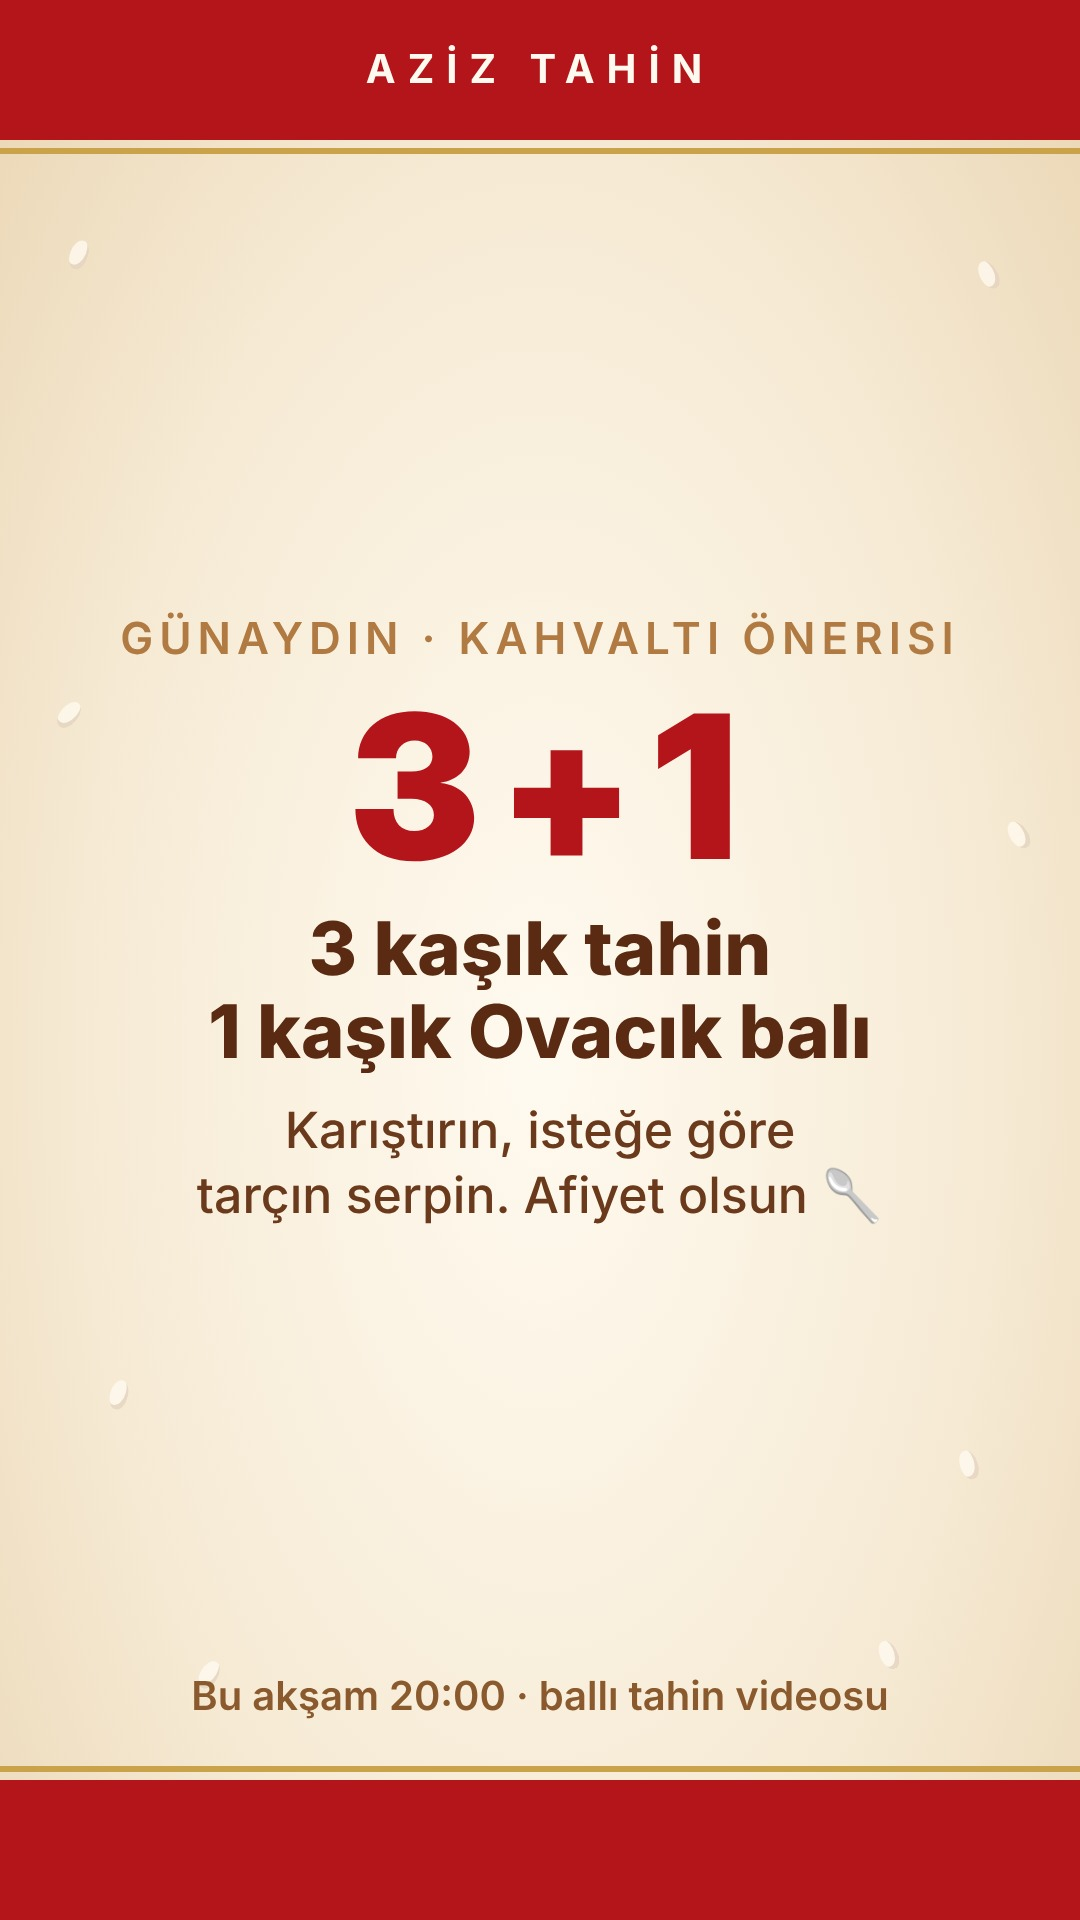
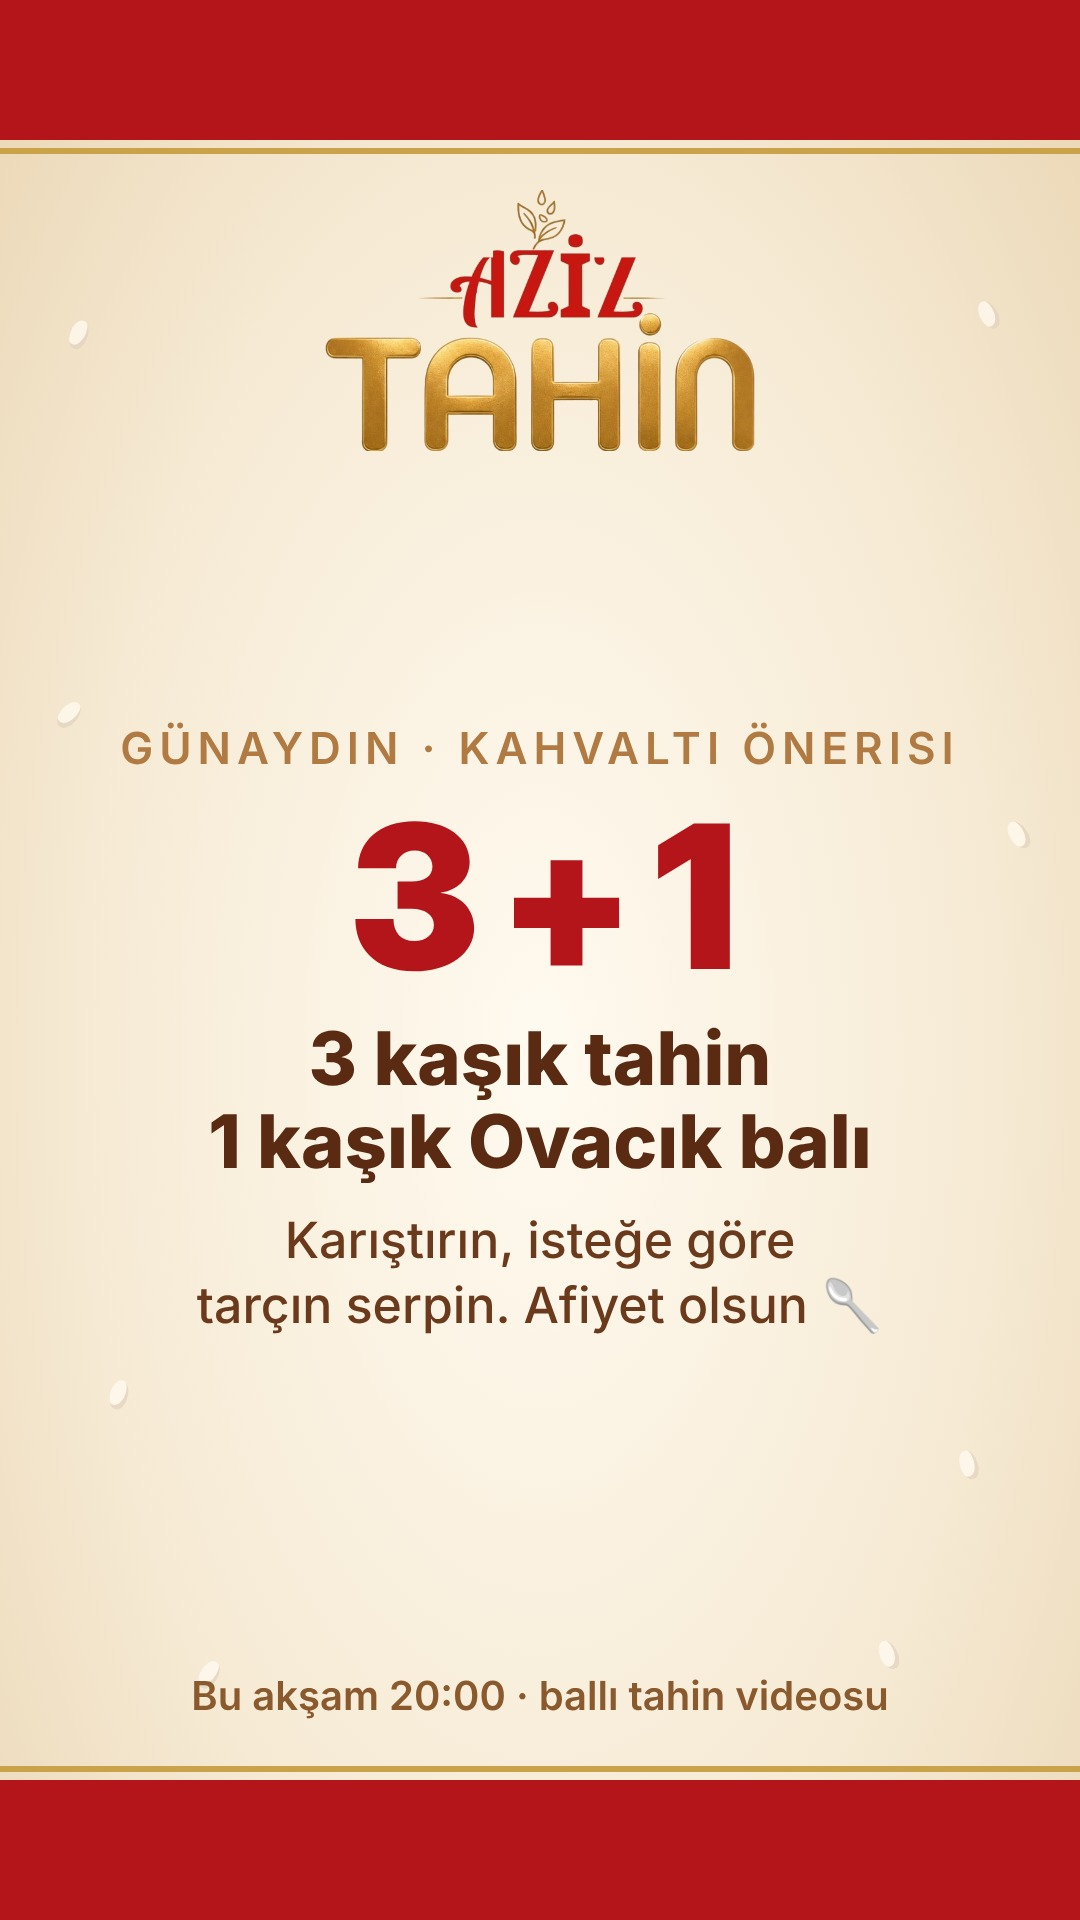
Sabah hikâyeleri: üst kısma gerçek Aziz Tahin logosu eklendi
Claude-Session: https://claude.ai/code/session_01LbgBc4wPXWRgFMDuR8TYQV

diff --git a/.claude/instagram/yayin/gorsel-uretici/uret.py b/.claude/instagram/yayin/gorsel-uretici/uret.py
@@ -8,22 +8,22 @@ background:radial-gradient(ellipse at 50% 55%,#fffaf0 0%,#f6ead4 60%,#ead6b4 100
 .band.top{top:0}.band.bot{bottom:0}
 .band:after{content:"";position:absolute;left:0;right:0;height:6px;background:#c9a24a}
 .band.top:after{bottom:-14px}.band.bot:after{top:-14px}
-.wrap{position:absolute;top:250px;bottom:330px;left:90px;right:90px;display:flex;flex-direction:column;align-items:center;justify-content:center;text-align:center;gap:26px}
+.wrap{position:absolute;top:470px;bottom:330px;left:90px;right:90px;display:flex;flex-direction:column;align-items:center;justify-content:center;text-align:center;gap:26px}
 .kick{font-size:44px;font-weight:600;letter-spacing:6px;color:#b07a42;text-transform:uppercase}
 .t{font-size:74px;font-weight:800;line-height:1.12}
 .big{font-family:'Inter Display';font-weight:900;color:#b3151b;font-size:200px;letter-spacing:-8px;line-height:.95}
 .s{font-size:50px;font-weight:500;line-height:1.3;color:#6b3a1c}
 .r{color:#b3151b}
 .e{font-family:'Noto Color Emoji'}
-.photo{width:520px;border-radius:26px;border:12px solid #fffaf0;box-shadow:0 26px 50px rgba(90,42,18,.28),0 0 0 2px #c9a24a;transform:rotate(-2deg)}
+.photo{width:430px;border-radius:26px;border:12px solid #fffaf0;box-shadow:0 26px 50px rgba(90,42,18,.28),0 0 0 2px #c9a24a;transform:rotate(-2deg)}
 .foot{position:absolute;bottom:200px;width:100%;text-align:center;font-size:40px;font-weight:600;color:#8a5a2e}
-.brand{position:absolute;top:44px;width:100%;text-align:center;font-weight:700;letter-spacing:12px;font-size:40px;color:#fffaf0}
+.logo{position:absolute;top:190px;left:50%;transform:translateX(-50%);width:430px}
 .seed{position:absolute;width:18px;height:30px;border-radius:50%;background:#fffaf0;box-shadow:inset -3px -4px 0 rgba(150,105,55,.25);opacity:.8}
 """
-SEEDS=[[70,240,20],[980,260,-30],[60,700,40],[1010,820,-35],[110,1380,15],[960,1450,-20],[200,1660,30],[880,1640,-25]]
+SEEDS=[[70,320,20],[980,300,-30],[60,700,40],[1010,820,-35],[110,1380,15],[960,1450,-20],[200,1660,30],[880,1640,-25]]
 def page(body, seeds=True):
     s="".join(f'<div class="seed" style="left:{x}px;top:{y}px;transform:rotate({r}deg)"></div>' for x,y,r in SEEDS) if seeds else ""
-    return f'<!doctype html><html><head><meta charset="utf-8"><style>{CSS}</style></head><body><div class="band top"></div><div class="brand">AZİZ TAHİN</div>{s}{body}<div class="band bot"></div></body></html>'
+    return f'<!doctype html><html><head><meta charset="utf-8"><style>{CSS}</style></head><body><div class="band top"></div><img class="logo" src="logo.png">{s}{body}<div class="band bot"></div></body></html>'
 E=lambda x:f'<span class="e">{x}</span>'
 stories=json.load(open(sys.argv[1]))
 for st in stories:
